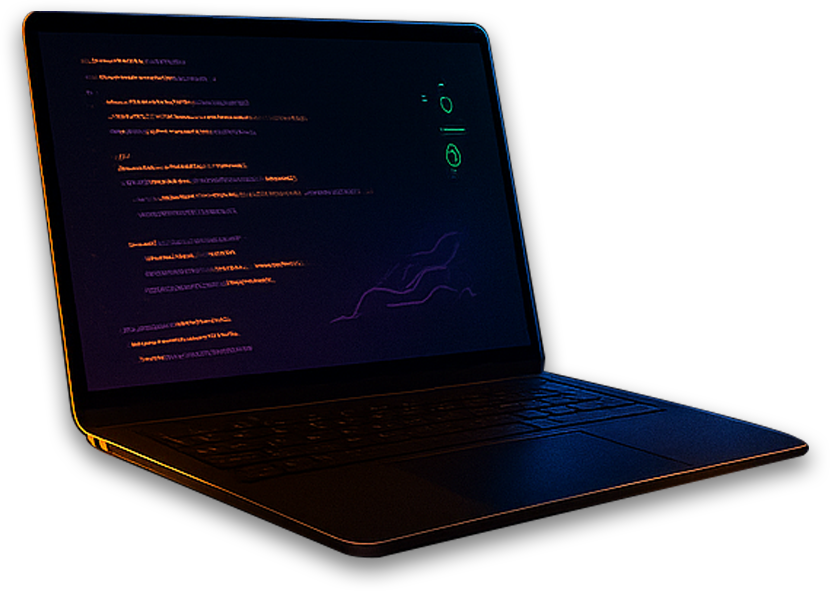
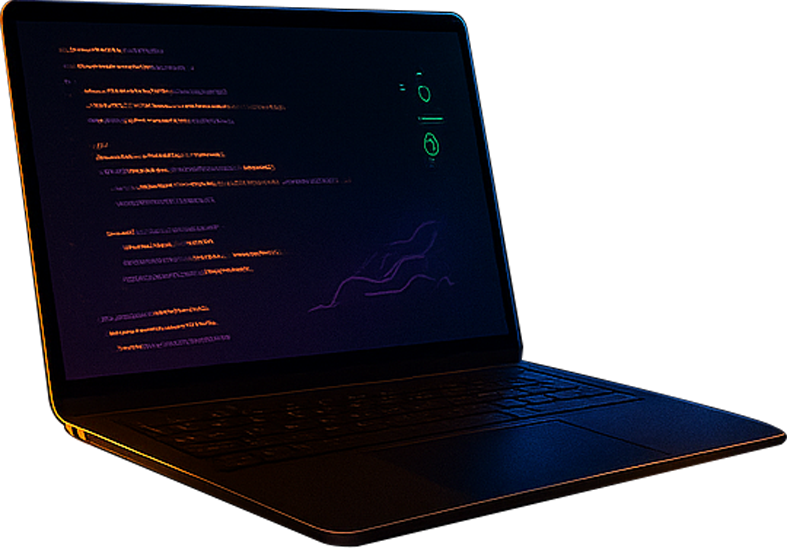
fixed

diff --git a/src/app/globals.css b/src/app/globals.css
@@ -51,24 +51,24 @@
 
   /* glowing borderline under laptop  */
   .borderline {
-    border: .7px solid #ffda08cc;
+    border: .9px solid #d37c13;
     /* solid border */
     box-shadow:
-      0 0 5px #f5b422, 0 0 7px #ffbd03bf, 0 0 7px #ff840052, 0 0 3px #fde59ce0;
+      0 0 16px #d37c13, 0 0 11px #ffbd03bf, 0 0 14px #d37c13, 0 0 10px #fde59ce0;
   }
 
   .borderline2 {
-    border: .3px solid #efd76094;
+    border: .3px solid #d37d139d;
     /* solid border */
     box-shadow:
-      0 0 2px #ffbd4242, 0 0 2px #ffbd0345, 0 0 2px #ff84001f, 0 0 1px #fde59ce0;
+      0 0 2px #d37d13e0, 0 0 2px #ffbd0345, 0 0 2px #d37d13e0, 0 0 1px #d37d13e0;
   }
 
   .borderline3 {
-    border: .2px solid #ffcc3a00;
+    border: .1px solid #d37d1336;
     /* solid border */
     box-shadow:
-      0 0 1px #ffbc4273, 0 0 4px #ffbd0300, 0 0 2px #ff840052, 0 0 2px #fde59ce0;
+      0 0 1px #d37d132a, 0 0 4px #ffbd0300, 0 0 2px #d37d133b, 0 0 2px #fde59ce0;
   }
 .laptop {
   transition: transform 0.4s ease-in-out, filter 0.4s ease-in-out;/* adjust time as needed */
@@ -85,12 +85,12 @@
 }
 @keyframes glow {
   0%, 100% {
-    filter: drop-shadow(0 0 0 #ffb10844)
-            drop-shadow(0 0 0 #ffbc034f);
+    filter: drop-shadow(0 0 0 #d37c13)
+            drop-shadow(0 0 0 #d37c13);
   }
   50% {
-    filter: drop-shadow(0 0 1px #ff9c08cc)
-            drop-shadow(0 0 1px #ffbc03bf);
+    filter: drop-shadow(0 0 2px #d37d13e0)
+            drop-shadow(0 0 3px #d39013e1);
   }
 }
 

diff --git a/src/app/page.js b/src/app/page.js
@@ -8,7 +8,7 @@ export default function Home() {
   return (
     <>
       <FullScreenLoader />
-      <main className="relative flex min-h-screen overflow-hidden flex-col items-center bg-[#07021d3b]">
+      <main className="relative flex h-full min-h-[66vh] overflow-hidden flex-col items-center bg-[#07021d3b]">
         {/* full-screen, semi-opaque bg image */}
         <Image
           priority
@@ -44,7 +44,7 @@ export default function Home() {
               className="
         relative z-20 object-contain animate-float-lapto laptop
         
-        w-[44%] md:w-[20rem] lg:w-[24rem] mb-8 md:mb-24
+        w-[44%] md:w-[20rem] lg:w-[24rem] mb-6 md:mb-24
       "
             />
 

diff --git a/tailwind.config.js b/tailwind.config.js
@@ -81,7 +81,7 @@ module.exports = {
             opacity: "0.8",
           },
           "100%": {
-            transform: "perspective(600px) rotateX(80deg) scale(1.1)",
+            transform: "perspective(600px) rotateX(80deg) scale(1)",
             opacity: "0",
             // boxShadow: "0 0 24px transparent",
             // borderColor: "#eab63e",
